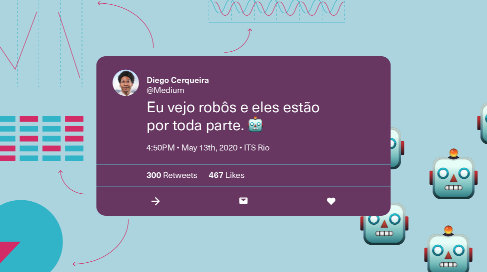
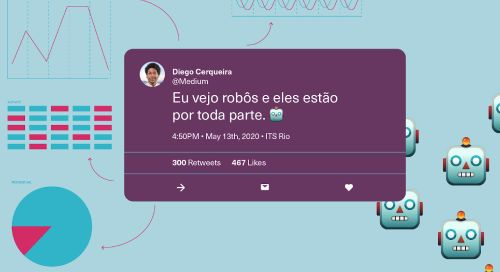
Font style adjustment and change image to a bigger one

diff --git a/assets/stylesheets/pages/_results.scss b/assets/stylesheets/pages/_results.scss
@@ -340,7 +340,9 @@ $gauge-hand-height: 8px;
 }
 
 .profile__analysis-results h3 {
-	font-size: ms(1);
+	font-weight: 400;
+
+	font-size: ms(2);
 
 	text-transform: none;
 
